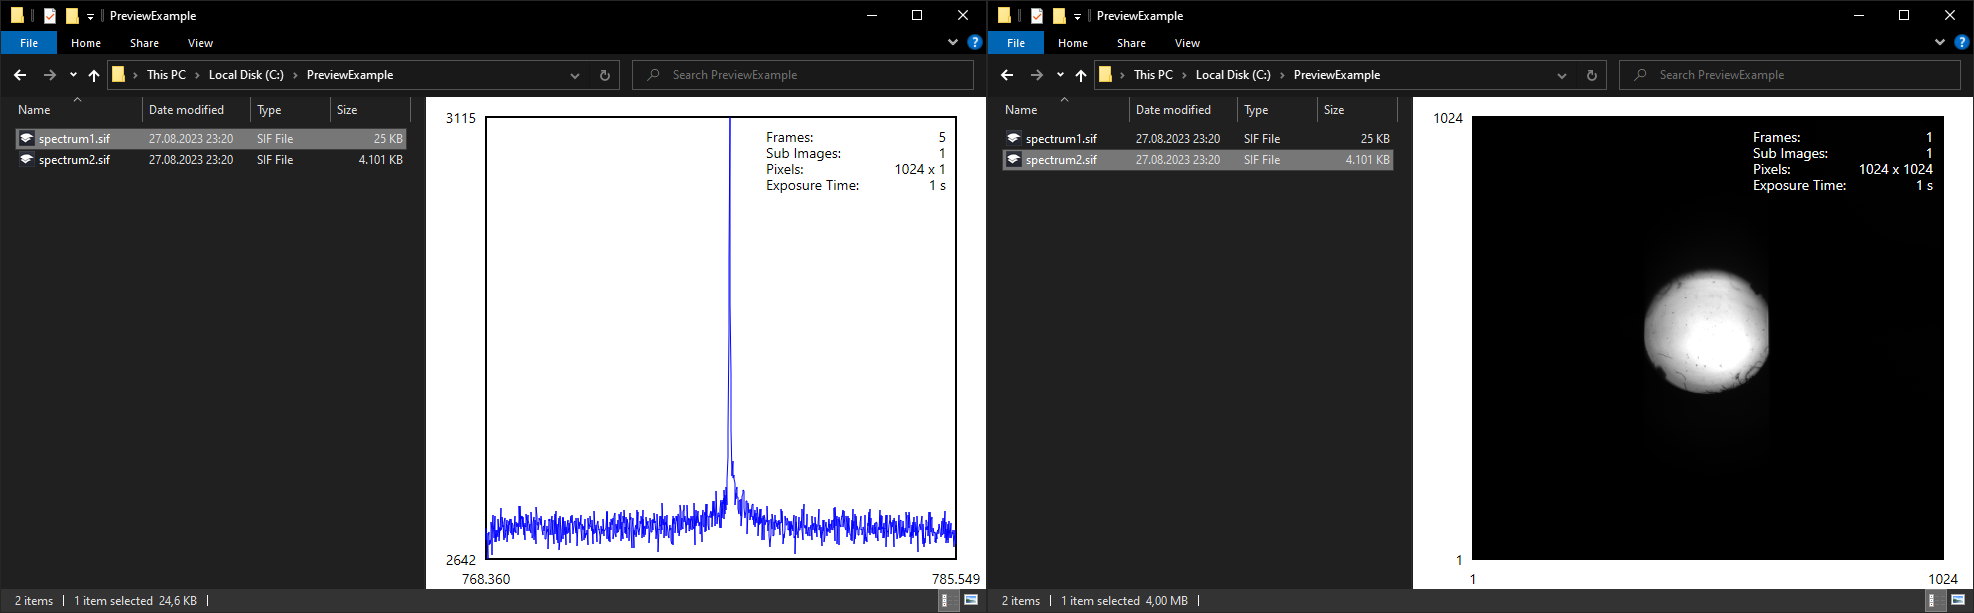
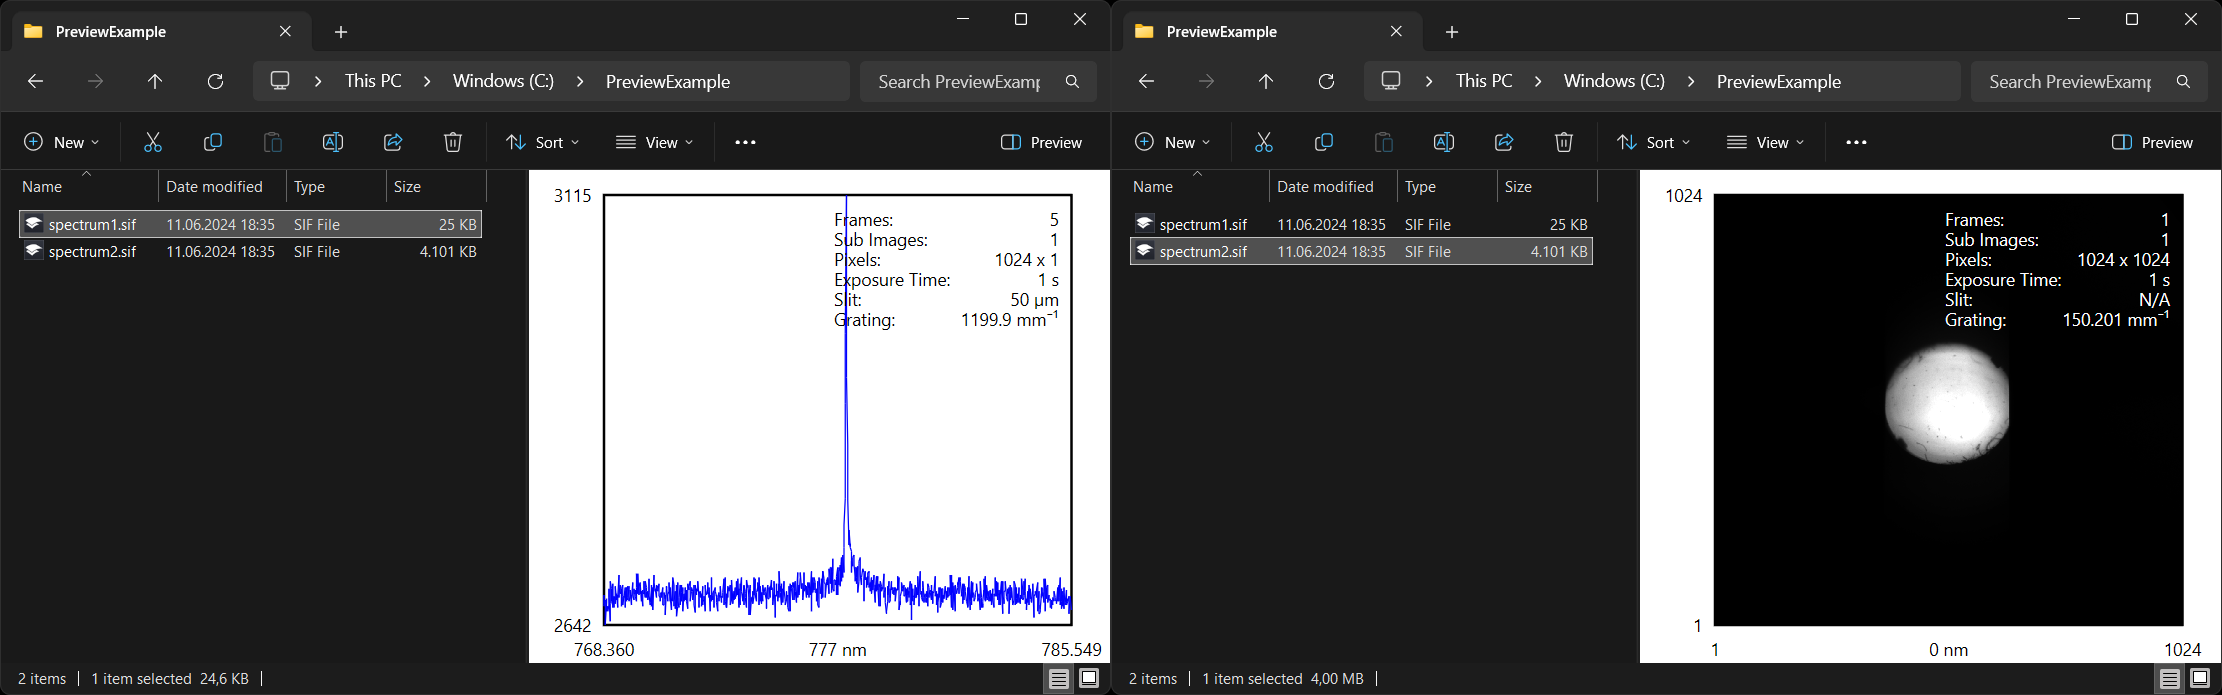
Fixed: Catch file load errors; Improved: Nearest neighbor interpolation

diff --git a/README.md b/README.md
@@ -1,14 +1,14 @@
 # SIFPreviewHandler - SIF Preview Handler for Windows Explorer
 
-This preview handler allows viewing spectra stored in the .sif file format directly in the preview pane of Windows Explorer or other compatible preview handler hosts. It uses proprietary library files from the [SIFReaderSDK](https://andor.oxinst.com/downloads/view/viewer:-sif-reader-sdk-2.104.30065.0), [Andor Solis](https://andor.oxinst.com/downloads/view/andor-solis-64-bit-4.32.30065.0), or [Andor SDK](https://andor.oxinst.com/downloads/view/andor-sdk-2.104.30084.0) installations. Please note that it has been developed and tested on a Windows 10 system (version 10.0.19045 Build 19045) and its compatibility with other Windows-based systems cannot be guaranteed. It is also not compatible with systems older than Windows Vista.
+This preview handler allows viewing spectra stored in the .sif file format directly in the preview pane of Windows Explorer. It uses proprietary library files from the [SIFReaderSDK](https://andor.oxinst.com/downloads/view/viewer:-sif-reader-sdk-2.104.30065.0), which are also typically included with [Andor Solis](https://andor.oxinst.com/downloads/view/andor-solis-64-bit-4.32.30065.0) or [Andor SDK](https://andor.oxinst.com/downloads/view/andor-sdk-2.104.30167.0) installations. It has been developed and tested on a Windows 11 system (Version 10.0.22631 Build 22631), and its compatibility with other Windows-based systems cannot be guaranteed. Additionally, it is not compatible with systems older than Windows Vista.
 
 ![Preview Example for FVB and Image Mode Spectrum](example.png)
 
 ## Files
 
 - **SIFPreviewHandler.dll**: The main preview handler library file.
-- **ATSIFIO64.dll**: Proprietary library file provided by Andor (see also sec. '[Development](#development)' below).
-- **atspooler.dll**: Proprietary library file provided by Andor (see also sec. '[Development](#development)' below).
+- **ATSIFIO64.dll**: Proprietary library file provided by Andor (see also sec. [Development](#development) below).
+- **atspooler.dll**: Proprietary library file provided by Andor (see also sec. [Development](#development) below).
 - **install.bat**: Script to register the preview handler with the operating system.
 - **uninstall.bat**: Script to unregister the preview handler from the operating system.
 
@@ -16,7 +16,7 @@ This preview handler allows viewing spectra stored in the .sif file format direc
 
 To install the SIF Preview Handler, follow these steps:
 
-1. Download the latest [release](https://github.com/dfpsoeew/SIFPreviewHandler/releases). The archive `SIFPreviewHandler.zip` contains all the files mentioned in sec. '[Files](#files)' above.
+1. Download the latest [release](https://github.com/dfpsoeew/SIFPreviewHandler/releases). The archive `SIFPreviewHandler.zip` contains all the files mentioned in sec. [Files](#files) above.
 2. Unpack the files into a folder on your system. This folder must remain present for the preview handler to work and cannot be deleted until the handler is uninstalled.
 3. Run **install.bat** (double click) to register the preview handler. Note that the screen may turn black during the installation process as Windows Explorer is restarted.
 4. Enable the preview pane in Windows Explorer by clicking the *View* tab in any Explorer window and selecting *Preview pane*.
@@ -29,6 +29,11 @@ To uninstall the SIF Preview Handler, follow these steps:
 2. All copied files can now be deleted manually.
 
 ## Versions
+
+### 1.3 (2026-07-05)
+- Fixed: File loading errors are now caught and will not crash the preview handler
+- Improved: In image mode, use nearest neighbor interpolation to avoid blurry images at low pixel sizes
+- Improved: Error messages can now be read by attaching a debugger to the preview handler process
 
 ### 1.2 (2024-06-11)
 - Fixed: Wavelength was displayed incorrectly when horizontal binning was active
@@ -49,18 +54,18 @@ This project relies heavily on the example provided by Microsoft, which can be f
 
 ### Get the necessary files
 
-To build **SIFPreviewHandler.dll**, you need to add several files to the project folder yourself due to license agreements. You can get them from the free downloadable packages [SIFReaderSDK](https://andor.oxinst.com/downloads/view/viewer:-sif-reader-sdk-2.104.30065.0), [Andor Solis](https://andor.oxinst.com/downloads/view/andor-solis-64-bit-4.32.30065.0), or [Andor SDK](https://andor.oxinst.com/downloads/view/andor-sdk-2.104.30084.0). They are located in the respective installation folder `C:\Program Files\<Andor Software Name>\SIF Reader\SIFReaderSDK\`. These files are required:
+To build **SIFPreviewHandler.dll**, you need to add several files to the project folder yourself due to license agreements. You can get them from the free downloadable packages [SIFReaderSDK](https://andor.oxinst.com/downloads/view/viewer:-sif-reader-sdk-2.104.30065.0), [Andor Solis](https://andor.oxinst.com/downloads/view/andor-solis-64-bit-4.32.30065.0), or [Andor SDK](https://andor.oxinst.com/downloads/view/andor-sdk-2.104.30167.0). They are located in the respective installation folder `C:\Program Files\<Andor Software Name>\SIF Reader\SIFReaderSDK\`. These files are required:
 
 - **ATLibraryExport.h**
 - **ATPrimitiveTypes.h**
 - **ATSIFErrorCodes.h**
 - **ATSIFIO.h**
 - **ATSIFIO64.a**
-- **ATSIFIO64.dll** (Provided in this [release](https://github.com/dfpsoeew/SIFPreviewHandler/releases) as well, since it will be released in a future [Andor Driver Pack](https://andor.oxinst.com/downloads/view/andor-driver-pack-2.104.30065.0-(ccd,iccd-emccd)), which does not require any license agreements)
+- **ATSIFIO64.dll** (Provided in this [release](https://github.com/dfpsoeew/SIFPreviewHandler/releases) as well, since it will be released in a future [Andor Driver Pack](https://andor.oxinst.com/downloads/view/andor-driver-pack-2.104.30167.0-(ccd,iccd-emccd)), which does not require any license agreements)
 - **ATSIFIO64.lib**
 - **ATSIFProperties.h**
 - **ATSIFTypes.h**
-- **atspooler.dll** (Provided in this [release](https://github.com/dfpsoeew/SIFPreviewHandler/releases) as well, since it will be released in a future [Andor Driver Pack](https://andor.oxinst.com/downloads/view/andor-driver-pack-2.104.30065.0-(ccd,iccd-emccd)), which does not require any license agreements)
+- **atspooler.dll** (Provided in this [release](https://github.com/dfpsoeew/SIFPreviewHandler/releases) as well, since it will be released in a future [Andor Driver Pack](https://andor.oxinst.com/downloads/view/andor-driver-pack-2.104.30167.0-(ccd,iccd-emccd)), which does not require any license agreements)
 
 ### Build the solution (similar to [this](https://github.com/microsoft/Windows-classic-samples/tree/main/Samples/Win7Samples/winui/shell/appshellintegration/RecipePreviewHandler) example)
 